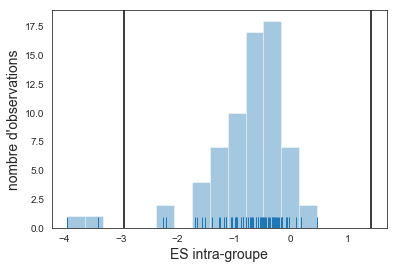
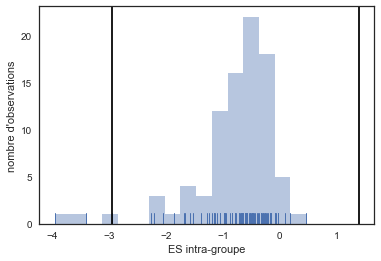
update of methods and results

Changed region(s): [[0.0, 0.0, 1.0, 0.9808]]

diff --git a/chapter_3.tex b/chapter_3.tex
@@ -123,9 +123,8 @@ traitement au sein du groupe \citep{Cohen1988}. Cette définition de l'\gls{es} 
 appliquée aux enfants \gls{tdah} \citep{Arns2009, Maurizio2014, Strehl2017}. Plus la valeur absolue de \gls{es}-intra-groupe est élevée, plus
 le traitement étudié est efficace. 
 
-Enfin, afin d'éviter de rompre les hypothèses des méthodes utilisées dans la \gls{saob}, les valeurs non comprises dans l'intervalle 
-$[\mu - 3 \sigma, \mu + 3 \sigma]$ (avec $\mu$ et $\sigma$ respectivement la moyenne et l'écart-type de tous les \gls{es}-intra-groupe calculés \citep{Shewhart1931})
-sont considérées comme aberrantes et sont donc rejetées.
+Afin de limiter l'influence d'observations extrêmes parmi les valeurs des \gls{es}-intra-groupe, celles se trouvant à plus de 3 écart-types de la moyenne
+de tous les \gls{es}-intra-groupe calculés ont été retirées de l'analyse \citep{Shewhart1931}.
 
 Par la suite, l'ensemble des \gls{es}-intra-groupe est considéré comme la variable dépendante que les variables indépendantes (les facteurs) vont expliquer. 
 
@@ -147,10 +146,10 @@ prendre en compte le fait que, pour certaines études, plusieurs échelles clini
 Le poids $w_{i}$ associé à chaque observation $i$ est défini comme suit : 
 \begin{equation}
 \label{eq:weight_WLS}
-w_{i} = \frac{\text{N}_{k,T}}{\text{NScales}_{k,T}},
+w_{i} = \frac{\text{N}_{k}}{\text{NS}_{k}},
 \end{equation} 
-avec $\text{N}_{k,T}$ le nombre de sujets dans l'étude $k$ dans le groupe suivant le traitement $T$ et $\text{NScales}_{k,T}$ le nombre 
-d'échelles cliniques disponibles dans l'étude $k$ évaluant l'efficacité du traitement $T$.
+avec $\text{N}_{k}$  le nombre de sujets dans l'étude $k$ dans le groupe suivant le traitement et $\text{NS}_{k}$  le nombre 
+d'échelles cliniques disponibles dans l'étude $k$ évaluant l'efficacité du traitement.
 
 Mathématiquement, la \gls{wls} se traduit ainsi : 
 \begin{equation}
@@ -245,8 +244,8 @@ sur le \gls{nfb} appliqué aux enfants \gls{tdah} pour déterminer les facteurs 
 
 Les termes entrés dans Pubmed pour la recherche des articles à inclure dans la \gls{saob} sont :
 (ADHD OR adhd OR attention deficit disorder with hyperactivity OR minimal brain disorders OR syndrome hyperkinetic OR hyperkinetic
- syndrome OR hyperactivity disorder OR hyperactive child syndrome OR childhood hyperkinetic syndrome OR attention deficit hyperactivity disorders
- OR attention deficit hyperactivity disorder OR adhd attention deficit hyperactivity disorder OR addh OR overactive child syndrome OR attention deficit 
+syndrome OR hyperactivity disorder OR hyperactive child syndrome OR childhood hyperkinetic syndrome OR attention deficit hyperactivity disorders
+OR attention deficit hyperactivity disorder OR adhd attention deficit hyperactivity disorder OR addh OR overactive child syndrome OR attention deficit 
 hyperkinetic disorder OR hyperkinetic disorder OR attention deficit disorder hyperactivity OR attention deficit disorders hyperactivity OR child 
 attention deficit disorder OR hyperkinetic syndromes OR syndromes hyperkinetic OR hyperkinetic syndrome childhood) AND 
 (randomized control trial OR RCT OR randomized control study OR Pilot Study OR Study OR Trial OR randomized trial) AND 
@@ -266,25 +265,32 @@ Figure~\ref{Figure:factors_pipeline_selection_studies}. Au final $k$ = 33 étude
   \label{Figure:factors_pipeline_selection_studies}
 \end{figure}
 
-Les \gls{es}-intra-groupe sont calculés pour chaque étude puis les valeurs aberrantes sont rejetées. La distribution des \gls{es}-intra-groupe ainsi que les bornes 
-de l'intervalle d'inclusion sont représentées à la Figure~\ref{Figure:distribution_ES_within}. Les \gls{es}-intra-groupe négatifs sont en faveur du \gls{nfb}.
+Les \gls{es}-intra-groupe sont calculés pour chaque étude puis les valeurs aberrantes sont rejetées comme expliqué en \ref{es_within}. 
+La distribution des \gls{es}-intra-groupe ainsi que les bornes de l'intervalle d'inclusion sont représentées à la 
+Figure~\ref{Figure:distribution_ES_within}. Les \gls{es}-intra-groupe négatifs sont en faveur du \gls{nfb}.
 
 \begin{figure}[h!]
   \centering
 	\includegraphics[width=0.5\linewidth]{figures/chapter-3/distribution-ES-within} 
-  \caption{Distribution des tailles d'effet (\gls{es}) intra-groupe, une valeur négative est en faveur du Neurofeedback. Les lignes verticales noires correspondent aux bornes supérieure et 
+  \caption{Distribution des tailles d'effet (\gls{es}) intra-groupe, une valeur négative est en faveur du Neurofeedback. Les lignes 
+	verticales noires correspondent aux bornes supérieure et 
 	inférieure de l'intervalle dans lequel les observations sont acceptées.}
   \label{Figure:distribution_ES_within}
 \end{figure}
 
-Deux observations sont à l'extérieur de l'intervalle d'inclusion : deux groupes de sujets de \citet{Bazanova2018} (celui de l'individualisation du \gls{nfb} et 
-celui de l'individualisation du \gls{nfb} et du couplage avec \gls{emg}-Biofeedback). En effet, ces deux groupes présentent des \gls{es}-intra-groupe très larges 
-(respectivement -3.41 et -3.95). Ces \gls{es} extrêmement surprenants sont même plus éleves que ceux rapportés dans la littérature sur l'efficacité 
-des psychostimulants sur les symptômes du \gls{tdah} chez les enfants \citep{Luan2017} comme illustré à la Figure~\ref{Figure:introduction-efficacy-treatments}. Ces valeurs invalident nos hypothèses de travail : dans le cas de la 
+Sur la base de notre critère d'exclusion défini, $i = 3$ observations (3.40\%) issues de deux études (4.87\%): deux groupes de sujets de 
+\citet{Bazanova2018} (celui de l'individualisation du \gls{nfb} et 
+celui de l'individualisation du \gls{nfb} et du couplage avec \gls{emg}-Biofeedback) et les résultats obtenus avec les évaluations des 
+parents de \citet{Rejabi2019}. 
+
+En effet, ces trois observations présentent des \gls{es}-intra-groupe très larges, notamment les groupes de \citet{Bazanova2018} 
+(respectivement -3.41 et -3.95). Ces \gls{es} extrêmement surprenants sont même plus élevés que ceux rapportés dans la littérature sur l'efficacité 
+des psychostimulants sur les symptômes du \gls{tdah} chez les enfants \citep{Luan2017} comme illustré à la Figure~\ref{Figure:introduction-efficacy-treatments}. 
+Ces valeurs invalident nos hypothèses de travail : dans le cas de la 
 \gls{wls}, les résidus ne sont plus distribués normalement. Ainsi, afin de pouvoir conclure sur les résultats obtenus par la \gls{saob}, 
 un rejet des valeurs aberrantes a été implémenté.
 
-La \gls{saob} est donc effectuée sur 33 études (qui correspondent à 67 observations) évaluant l'efficacité du \gls{nfb} sur les enfants \gls{tdah} et 
+La \gls{saob} est donc effectuée sur 41 études (qui correspondent à 85 observations) évaluant l'efficacité du \gls{nfb} sur les enfants \gls{tdah} et 
 qui sont listées dans la Table~\ref{Table:table_factors_analysis_meta_analysis_list_studies}. Au total, les 33 études sélectionnées rassemblent 
 846 enfants \gls{tdah} effectuant du \gls{nfb}.
 
@@ -314,7 +320,6 @@ homogènes ou présentaient trop d'observations manquantes :
 	\item la sévérité des symptômes du \gls{tdah},
 	\item le degré d'engagement dans l'entraînement par \gls{nfb}.
 \end{itemize} 
-
 
 Afin de comparer la variabilité des valeurs au sein des facteurs non catégoriels sélectionnés, les boxplots des valeurs standardisées ont 
 été obtenus et représentés à la Figure~\ref{Figure:factors-boxplots} :
